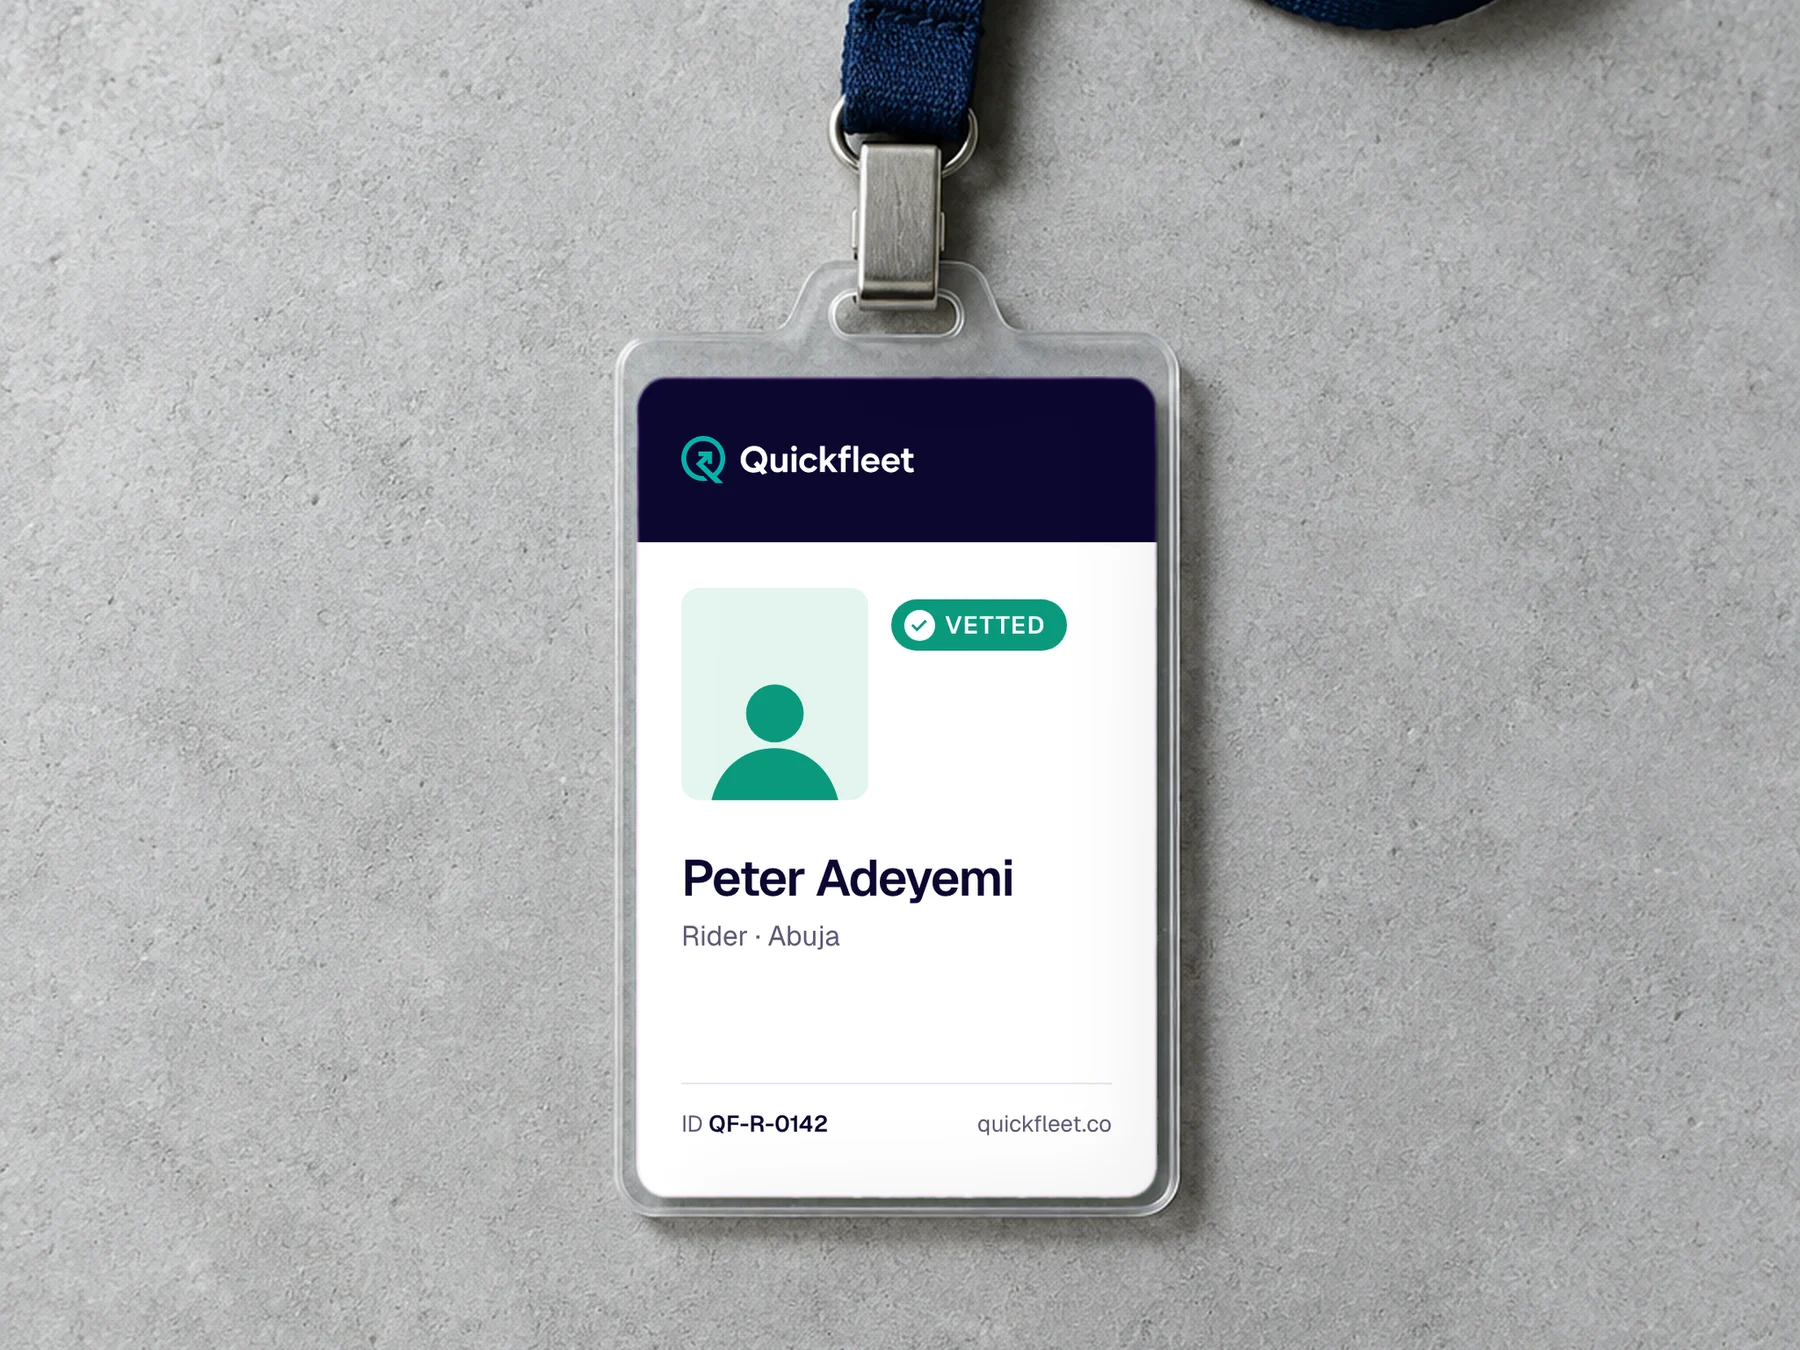
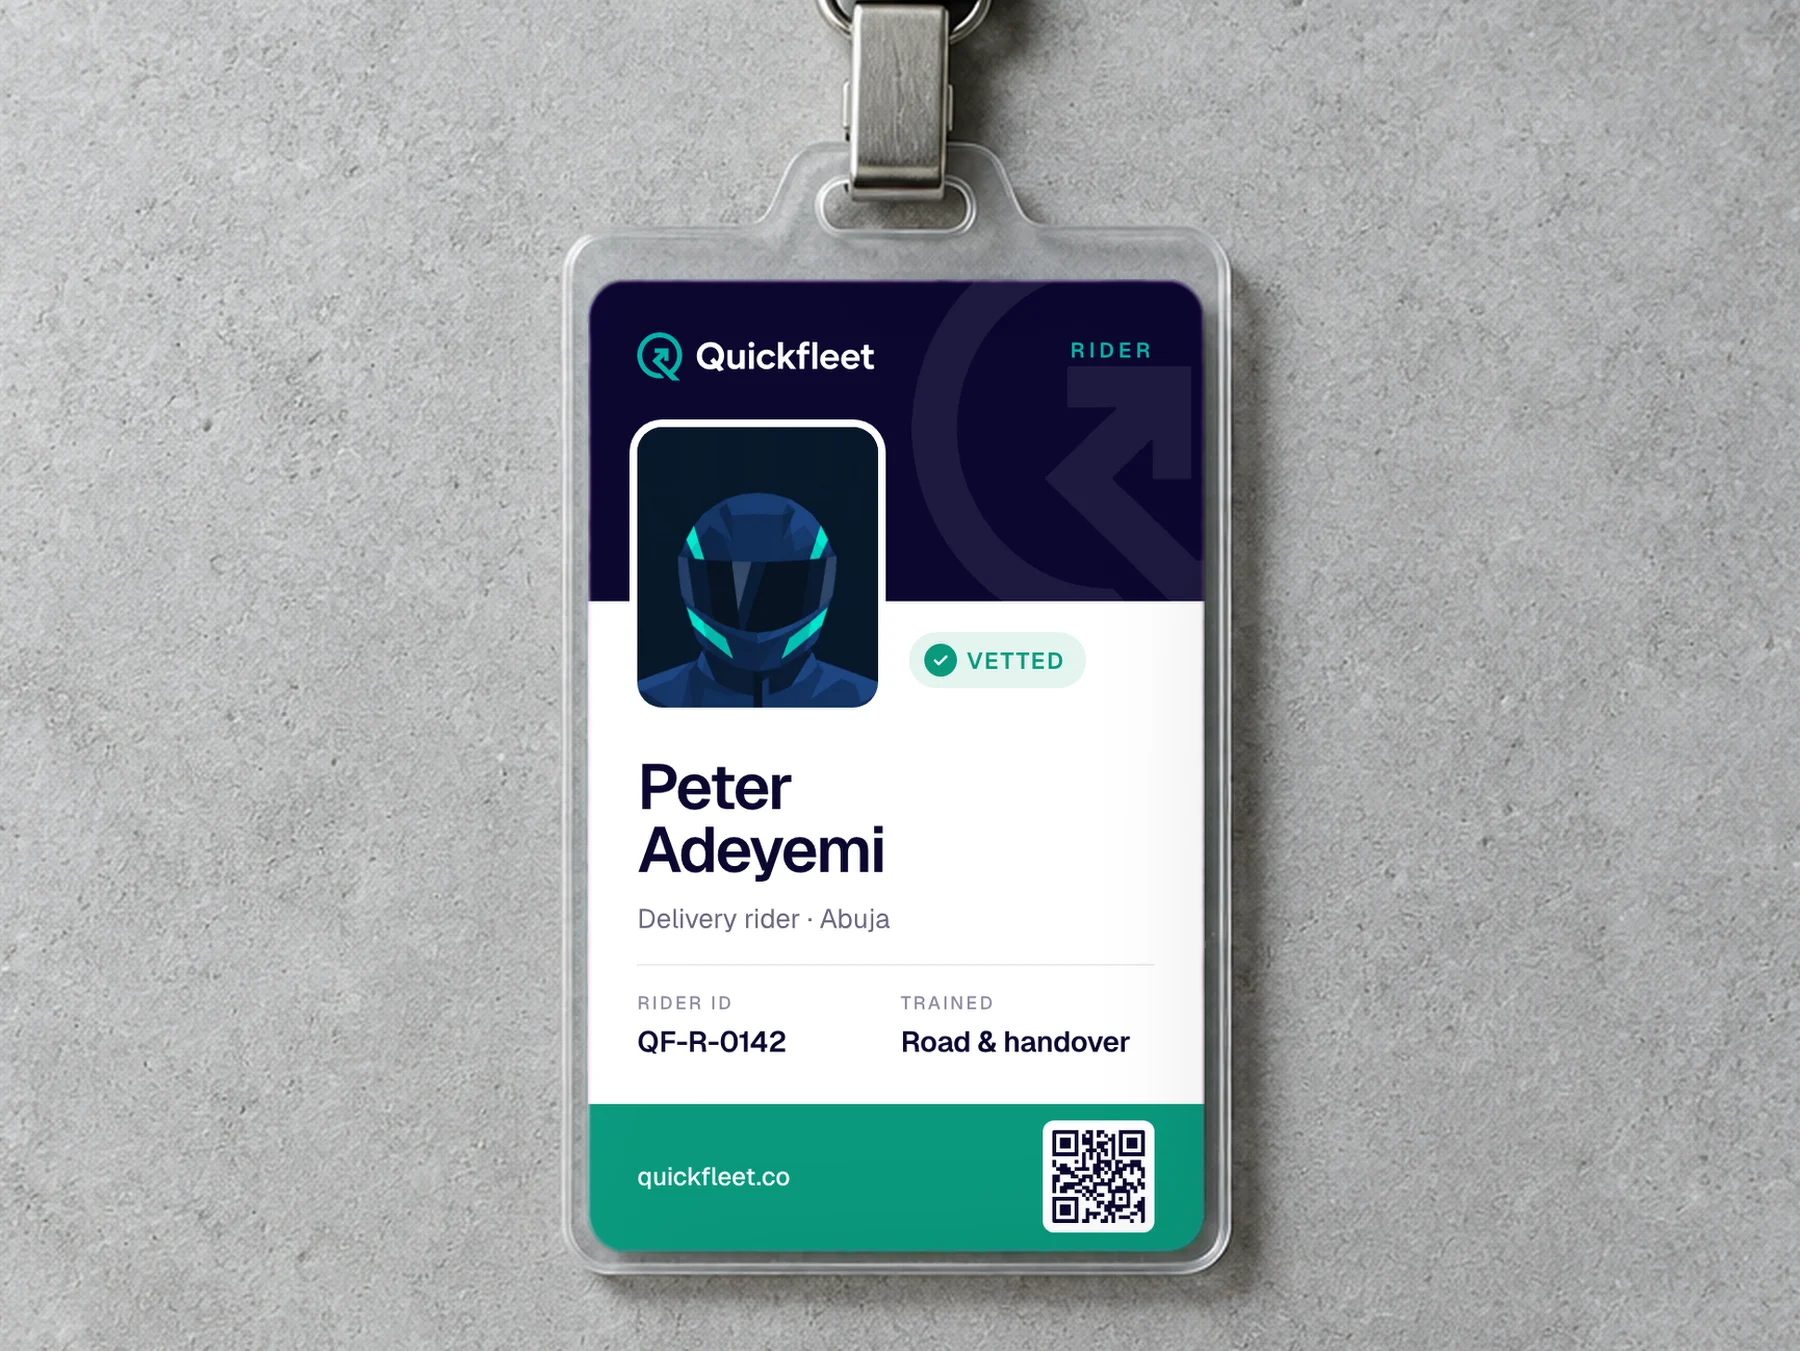
QuickFleet case study v21 (review): brand in use refined: new rider ID card, swatch fan without dots, QuickFleet's own bike style with branded box, hub front with fascia and plaque, billboard 'Petrol moves. Your price doesn't.'
Claude-Session: https://claude.ai/code/session_01RM6AwGwnHcAYYXnMABwLuz

diff --git a/case-quickfleet.html b/case-quickfleet.html
@@ -1379,12 +1379,12 @@ body{background:var(--ink)}
       <div class="v-full v-bento" data-reveal aria-label="QuickFleet illustrations"><figure class="b-feat"><img src="/assets/img/cs-qf-art-batteries.webp" width="740" height="520" alt="" loading="lazy" decoding="async"><figcaption><span>Illustration</span><b>One idea per drawing, in layered line.</b></figcaption></figure><figure class="b-t"><img src="/assets/img/cs-qf-art-parcel.webp" width="511" height="578" alt="" loading="lazy" decoding="async"></figure><figure class="b-t"><img src="/assets/img/cs-qf-art-record.webp" width="418" height="676" alt="" loading="lazy" decoding="async"></figure><figure class="b-t"><img src="/assets/img/cs-qf-art-coins.webp" width="722" height="599" alt="" loading="lazy" decoding="async"></figure><figure class="b-t"><img src="/assets/img/cs-qf-art-stopwatch.webp" width="468" height="418" alt="" loading="lazy" decoding="async"></figure><figure class="b-t"><img src="/assets/img/cs-qf-art-calendar.webp" width="705" height="446" alt="" loading="lazy" decoding="async"></figure><figure class="b-t"><img src="/assets/img/cs-qf-art-tree.webp" width="523" height="504" alt="" loading="lazy" decoding="async"></figure><figure class="b-t"><img src="/assets/img/cs-qf-art-cones.webp" width="455" height="510" alt="" loading="lazy" decoding="async"></figure><figure class="b-t"><img src="/assets/img/cs-qf-art-packages.webp" width="596" height="634" alt="" loading="lazy" decoding="async"></figure></div>
       <figure class="v-p v-full v-wide v-posters" data-reveal><img src="/assets/img/cs-qf-sc-posters.webp" srcset="/assets/img/cs-qf-sc-posters-1000.webp 1000w, /assets/img/cs-qf-sc-posters.webp 2400w" sizes="(max-width:900px) 100vw, 96vw" width="2400" height="1600" alt="Two QuickFleet posters on a concrete wall: “Swap the battery. Skip the wait.” on white with the battery, and “A vetted rider. Tracked to the door.” on navy" loading="lazy" decoding="async"></figure>
       <p class="v-full v-sublab" data-reveal>The brand in use</p>
-      <figure class="v-p v-ap v-full" data-reveal><img src="/assets/img/cs-qf-ap-billboard.webp" srcset="/assets/img/cs-qf-ap-billboard-900.webp 900w, /assets/img/cs-qf-ap-billboard.webp 2400w" sizes="(max-width:900px) 100vw, 96vw" width="2400" height="1250" alt="A QuickFleet billboard: Steady when fuel isn’t" loading="lazy" decoding="async"></figure>
+      <figure class="v-p v-ap v-full" data-reveal><img src="/assets/img/cs-qf-ap-billboard.webp" srcset="/assets/img/cs-qf-ap-billboard-900.webp 900w, /assets/img/cs-qf-ap-billboard.webp 2400w" sizes="(max-width:900px) 100vw, 96vw" width="2400" height="1250" alt="A QuickFleet billboard: Petrol moves. Your price doesn’t." loading="lazy" decoding="async"></figure>
       <figure class="v-p v-ap " data-reveal><img src="/assets/img/cs-qf-ap-fan.webp" srcset="/assets/img/cs-qf-ap-fan-900.webp 900w, /assets/img/cs-qf-ap-fan.webp 1800w" sizes="(max-width:900px) 100vw, 48vw" width="1800" height="1350" alt="The QuickFleet colour swatch fan" loading="lazy" decoding="async"></figure>
-      <figure class="v-p v-ap " data-reveal><img src="/assets/img/cs-qf-ap-card.webp" srcset="/assets/img/cs-qf-ap-card-900.webp 900w, /assets/img/cs-qf-ap-card.webp 1800w" sizes="(max-width:900px) 100vw, 48vw" width="1800" height="1350" alt="A rider ID card on a lanyard, marked Vetted" loading="lazy" decoding="async"></figure>
-      <figure class="v-p v-ap " data-reveal><img src="/assets/img/cs-qf-ap-bike.webp" srcset="/assets/img/cs-qf-ap-bike-900.webp 900w, /assets/img/cs-qf-ap-bike.webp 1800w" sizes="(max-width:900px) 100vw, 48vw" width="1800" height="1350" alt="An electric delivery bike with a QuickFleet top box" loading="lazy" decoding="async"></figure>
+      <figure class="v-p v-ap " data-reveal><img src="/assets/img/cs-qf-ap-card.webp" srcset="/assets/img/cs-qf-ap-card-900.webp 900w, /assets/img/cs-qf-ap-card.webp 1800w" sizes="(max-width:900px) 100vw, 48vw" width="1800" height="1350" alt="A QuickFleet rider ID card on a lanyard: photo, name, rider ID and a Vetted badge" loading="lazy" decoding="async"></figure>
+      <figure class="v-p v-ap " data-reveal><img src="/assets/img/cs-qf-ap-bike.webp" srcset="/assets/img/cs-qf-ap-bike-900.webp 900w, /assets/img/cs-qf-ap-bike.webp 1800w" sizes="(max-width:900px) 100vw, 48vw" width="1800" height="1350" alt="A QuickFleet electric motorcycle with its branded teal top box" loading="lazy" decoding="async"></figure>
       <figure class="v-p v-ap " data-reveal><img src="/assets/img/cs-qf-ap-tape.webp" srcset="/assets/img/cs-qf-ap-tape-900.webp 900w, /assets/img/cs-qf-ap-tape.webp 1800w" sizes="(max-width:900px) 100vw, 48vw" width="1800" height="1350" alt="A parcel sealed with QuickFleet tape" loading="lazy" decoding="async"></figure>
-      <figure class="v-p v-ap v-full" data-reveal><img src="/assets/img/cs-qf-ap-sign.webp" srcset="/assets/img/cs-qf-ap-sign-900.webp 900w, /assets/img/cs-qf-ap-sign.webp 2400w" sizes="(max-width:900px) 100vw, 96vw" width="2400" height="1250" alt="QuickFleet signage on a hub: Battery swap, Parcels" loading="lazy" decoding="async"></figure>
+      <figure class="v-p v-ap v-full" data-reveal><img src="/assets/img/cs-qf-ap-sign.webp" srcset="/assets/img/cs-qf-ap-sign-900.webp 900w, /assets/img/cs-qf-ap-sign.webp 2400w" sizes="(max-width:900px) 100vw, 96vw" width="2400" height="1250" alt="A QuickFleet hub front: fascia sign reading Battery swap, Parcels, Rider check-in, and a door plaque" loading="lazy" decoding="async"></figure>
     </div>
   </div></section>
 
